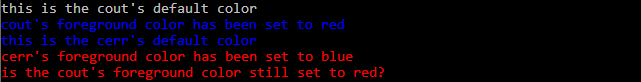
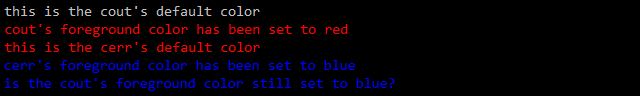
minor fixes

diff --git a/docs/colors-in-console.html b/docs/colors-in-console.html
@@ -23,16 +23,16 @@ int main() {
   HANDLE output = GetStdHandle(STD_OUTPUT_HANDLE);
 
   std::cout &lt;&lt; &quot;this is the cout's default color&quot; &lt;&lt; std::endl;
-  SetConsoleTextAttribute(output, FOREGROUND_BLUE|FOREGROUND_INTENSITY);
+  SetConsoleTextAttribute(output, FOREGROUND_RED|FOREGROUND_INTENSITY);
   std::cout &lt;&lt; &quot;cout's foreground color has been set to red&quot; &lt;&lt; std::endl;
 
   HANDLE error = GetStdHandle(STD_ERROR_HANDLE);
 
   std::cerr &lt;&lt; &quot;this is the cerr's default color&quot; &lt;&lt; std::endl;
-  SetConsoleTextAttribute(error, FOREGROUND_RED|FOREGROUND_INTENSITY);
+  SetConsoleTextAttribute(error, FOREGROUND_BLUE|FOREGROUND_INTENSITY);
   std::cerr &lt;&lt; &quot;cerr's foreground color has been set to blue&quot; &lt;&lt; std::endl;
 
-  std::cout &lt;&lt; &quot;is the cout's foreground color still set to red?&quot; &lt;&lt; std::endl;
+  std::cout &lt;&lt; &quot;is the cout's foreground color still set to blue?&quot; &lt;&lt; std::endl;
 
   return 0;
 }

diff --git a/cpp/heap.html b/cpp/heap.html
@@ -82,7 +82,7 @@ int main ()
 </ul>
 <h2>Note</h2>
 <p>Le allocazioni effettuate nei file non sottoposti al controllo di allocazione, cos&igrave; come quelle effettuate dalle liberie esterne - ed in genere ovunque la ridefinizione degli operatori non sia visibile - vengono registrate con provenienza &quot;sconosciuta&quot; e classificate come <span class="request-type">UnqualifiedRequest</span>.</p>
-<p>Poich&eacute; STL fa largo uso di oggetti statici le cui deallocazioni avvengono dopo la conclusione del programma), la presenza di richieste di allocazione non qualificate non viene segnalata come errore.</p>
+<p>Poich&eacute; STL fa largo uso di oggetti statici le cui deallocazioni avvengono dopo la conclusione del programma, la presenza di richieste di allocazione non qualificate non viene segnalata come errore.</p>
 <p class="modification-notice">Pagina modificata il 15/11/2011</p>
 </body>
 </html>
